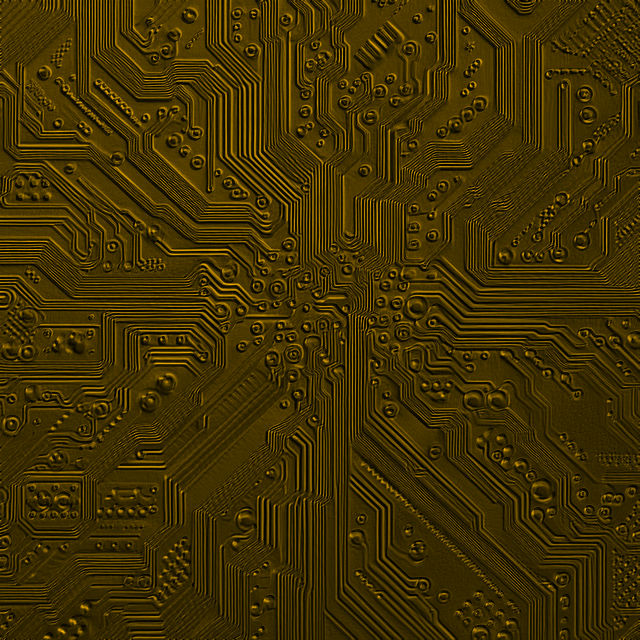
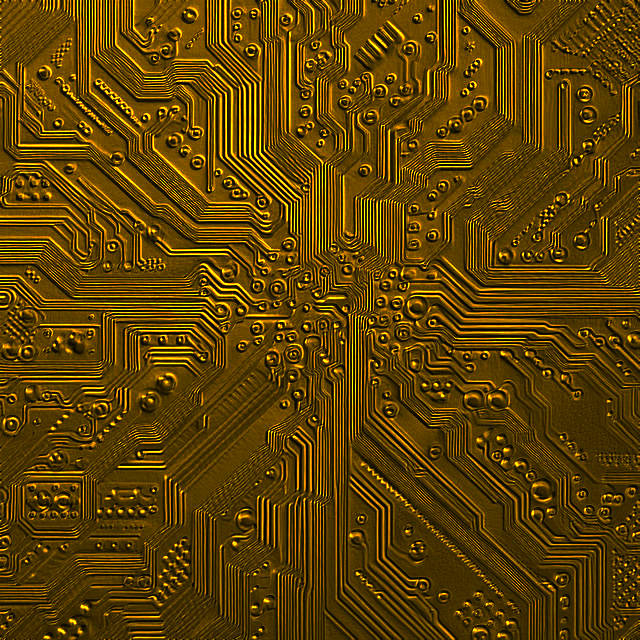
First release version

diff --git a/inertia.js b/inertia.js
@@ -12,7 +12,7 @@ class InertiaGame {
       // stop_image: './assets/mine.jpg',
       wall_image: './assets/wall.jpg',
       player_image: './assets/player.png',
-      gem_image: './assets/gem.png',
+      gem_image: './assets/blue.png',
       stop_image: './assets/stop.png',
       enable_restart: false,
       ...cfg
@@ -90,6 +90,7 @@ class InertiaScene extends Phaser.Scene {
       this.isSliding = false; // State tracker
       this.disabledStops = new Set();
 
+      // this.floors = this.physics.add.staticGroup();
       this.walls = this.physics.add.staticGroup();
       this.diamonds = this.physics.add.staticGroup();
       this.bombs = this.physics.add.staticGroup();
@@ -98,7 +99,7 @@ class InertiaScene extends Phaser.Scene {
       if (this.config.background_image) {
           this.background = this.add.image(0, 0, 'background')
             .setOrigin(0, 0)
-            .setDisplaySize(this.sys.canvas.width, this.sys.canvas.height);
+            .setDisplaySize(this.sys.canvas.width, this.sys.canvas.height)//.setTint(0xFFFFFF);
       }
       if (this.config.background_color) { this.cameras.main.setBackgroundColor(this.config.background_color); }
 
@@ -112,11 +113,12 @@ class InertiaScene extends Phaser.Scene {
 
             let f = this.add.image(posX, posY, 'floor');
             f.setDisplaySize(this.TILE_SIZE, this.TILE_SIZE);
-            f.setAlpha(0.25)
+            f.setAlpha(0.4)
 
             if (type === 'W') {
                 let s = this.walls.create(posX, posY, 'wall');
                 s.setDisplaySize(this.TILE_SIZE, this.TILE_SIZE);
+                s.setAlpha(0.7); s.setTint(0xFF0000); //s.setBlendMode(0)
                 s.body.setSize(this.TILE_SIZE, this.TILE_SIZE).setOffset(this.TILE_SIZE/2+cdiff,this.TILE_SIZE/2+cdiff);
                 // s.setAlpha(0.6)
             } else if (type === 'P') {
@@ -133,7 +135,19 @@ class InertiaScene extends Phaser.Scene {
                 this.totalDiamonds++;
                 s.setDisplaySize(this.TILE_SIZE, this.TILE_SIZE);
                 s.body.setSize(this.TILE_SIZE, this.TILE_SIZE).setOffset(this.TILE_SIZE/2+cdiff,this.TILE_SIZE/2+cdiff);
-                s.preFX.addShine(Phaser.Math.Between(5, 10) / 10, 0.5, 3, false);
+                s.preFX.addShine(Phaser.Math.Between(10, 20) / 10, 1.5, 3, false);
+                // 3. Tween the outerStrength to create a pulsing effect
+                // s.setTint(0xFFFFFF)
+                // s.setAlpha(0.5)
+                this.tweens.add({
+                    targets: s.preFX.addGlow(0xFFFFFF, 1, 0, false, 0.1, 10),
+                    outerStrength: 3,   // Maximum glow intensity
+                    innerStrength: 1,   // Maximum glow intensity
+                    yoyo: true,         // Reverse the tween
+                    repeat: -1,         // Loop indefinitely
+                    duration: Phaser.Math.Between(75, 100),     // Duration of one pulse cycle
+                    ease: 'Sine.easeInOut' // Smooth easing
+                });
             } else if (type === 'B') {
                 let s = this.bombs.create(posX, posY, 'bomb');
                 s.setDisplaySize(this.TILE_SIZE - 7, this.TILE_SIZE - 7);
@@ -142,17 +156,19 @@ class InertiaScene extends Phaser.Scene {
 
                 // 3. Tween the outerStrength to create a pulsing effect
                 this.tweens.add({
-                    targets: s.preFX.addGlow(0xffdd33, 4, 0, false, 0.1, 10),
+                    targets: s.preFX.addGlow(0xffdd33, 4, 4, false, 0.1, 10),
                     outerStrength: 8,   // Maximum glow intensity
+                    innerStrength: 0,   // Maximum glow intensity
                     yoyo: true,         // Reverse the tween
                     repeat: -1,         // Loop indefinitely
-                    duration: Phaser.Math.Between(450, 550),     // Duration of one pulse cycle
+                    duration: Phaser.Math.Between(650, 750),     // Duration of one pulse cycle
                     ease: 'Sine.easeInOut' // Smooth easing
                 });
             } else if (type === 'S') {
                 let s = this.stopTiles.create(posX, posY, 'stop');
+                // s.setTint(0xFFFFFF); s.setBlendMode(3)
                 s.setDisplaySize(this.TILE_SIZE, this.TILE_SIZE);
-                s.body.setSize(this.TILE_SIZE/1.5, this.TILE_SIZE/1.5).setOffset(this.TILE_SIZE/1.5+cdiff,this.TILE_SIZE/1.5+cdiff);
+                s.body.setSize(this.TILE_SIZE/2, this.TILE_SIZE/2).setOffset(this.TILE_SIZE/1.3+cdiff,this.TILE_SIZE/1.3+cdiff);
             }
         }
       });
@@ -263,14 +279,14 @@ class InertiaScene extends Phaser.Scene {
       text, {
         fontSize: '18px',
         fontStyle: 'bold',
-        fill: '#22ff88',
+        fill: '#FFFFFF',
         backgroundColor: '#000000',
         //stroke: '#ddaa00',
         //strokeThickness: 2,
         padding: { x: pad, y: pad/2 }
       }
     ).setOrigin(0.5,0.5).setAlpha(0.95);
-    this.texts[name].preFX.addGlow(0X00ff55, 8, 0, false);
+    this.texts[name].preFX.addGlow(0XFFFFFF, 8, 0, false);
     return this.texts[name]
   }
 
@@ -366,8 +382,9 @@ class InertiaScene extends Phaser.Scene {
         player.body.reset(snapX, snapY);
 
         // Visual feedback
-        player.setTint(0xffaa00);
-        this.time.delayedCall(100, () => { if(player.active) player.clearTint(); });
+        player.setTint(0xffffff);
+        player.setBlendMode(1);
+        this.time.delayedCall(100, () => { if(player.active) player.clearTint(); player.setBlendMode(0); });
     }
 
     handleStop(player, tile) {
@@ -420,7 +437,7 @@ class InertiaScene extends Phaser.Scene {
       this.bombs.setVisible(false)
       this.player.setVisible(false)
       this.walls.setVisible(false)
-      this.submit = `${this.cfg.seed}_${t.diamondsCollected}_${t.rowCount}`
+      this.submit = `${this.cfg.seed}_${this.diamondsCollected}_${this.rowCount}`
       if (this.cfg.win_callback) {
         this.cfg.win_callback(this);
       }
@@ -437,12 +454,14 @@ class InertiaScene extends Phaser.Scene {
         // this.statusText.style.color = "#ff0000";
         
         // Simple explosion effect
-        this.explode(player)
+        player.setTint(0xFF0000)
+        this.explode(player)        
         this.explode(bomb)
         this.time.delayedCall(2000, () => { this.scene.stop(); this.scene.start(); });
     }
 
     explode(object) {
+        object.setTint(0xff0000);
         const particles = this.add.particles(object.x, object.y, object.texture.key, {
             speed: 100,
             scale: { start: 0.5, end: 0 },
@@ -450,6 +469,5 @@ class InertiaScene extends Phaser.Scene {
             blendMode: 'ADD',
             lifespan: 1200,
         }).setDepth(11);      
-        object.setTint(0xffffff);
     }
 }

diff --git a/index.html b/index.html
@@ -6,38 +6,40 @@
     <style>
         body { margin: 0; background: #222; display: flex; justify-content: center; align-items: center; height: 100vh; color: #fff; font-family: sans-serif; }
         canvas { border: 2px solid #555; box-shadow: 0 0 20px rgba(0,0,0,0.5); }
-        #info { position: absolute; top: 10px; text-align: center; pointer-events: none; }
+        #game { position: absolute; top: 10px; text-align: center; }
     </style>
 <script src="https://cdn.jsdelivr.net/npm/phaser@v3.90.0/dist/phaser.min.js" crossorigin="anonymous"></script>
 <script src="./map_gen.js" crossorigin="anonymous"></script>
 <script src="./inertia.js" crossorigin="anonymous"></script>
 </head>
 <body>
-
-<div id="info">
+<div id="game" style="width:360px;height:360px;">
 </div>
 <script>
 
 let game = null
+let d_width = document.getElementById('game').clientWidth
+let d_height = document.getElementById('game').clientHeight
+
 const generator = new InertiaMapGenerator({
     rows: 12, columns: 12,
-    diamonds: 6, bombs: 12,
+    diamonds: 8, bombs: 19,
     diff_mod: 2.5, wipe_solution: false,
 });
 
 try {
     const result = generator.generate();
-    
     console.log(`\nSolution Moves (${result.solution.length} steps):`);
     result.solution.forEach((move, index) => {
         console.log(`Move ${index + 1}: Slide ${move.direction} to (${move.to.x},${move.to.y})`);
     });
+
     game = new InertiaGame({
             // tile_size: 32,
             map: result.map,
-            width: 336,
-            height: 336,
-            seed: 'quack'
+            width: d_width,
+            height: d_height,
+            seed: 'quack',
             win_callback: (t)=> {
                 console.log(`${t.submit}`)
             },
@@ -46,6 +48,7 @@ try {
         {
             type: Phaser.AUTO,
             backgroundColor: '#000000',
+            parent: 'game',
         }
     );
 